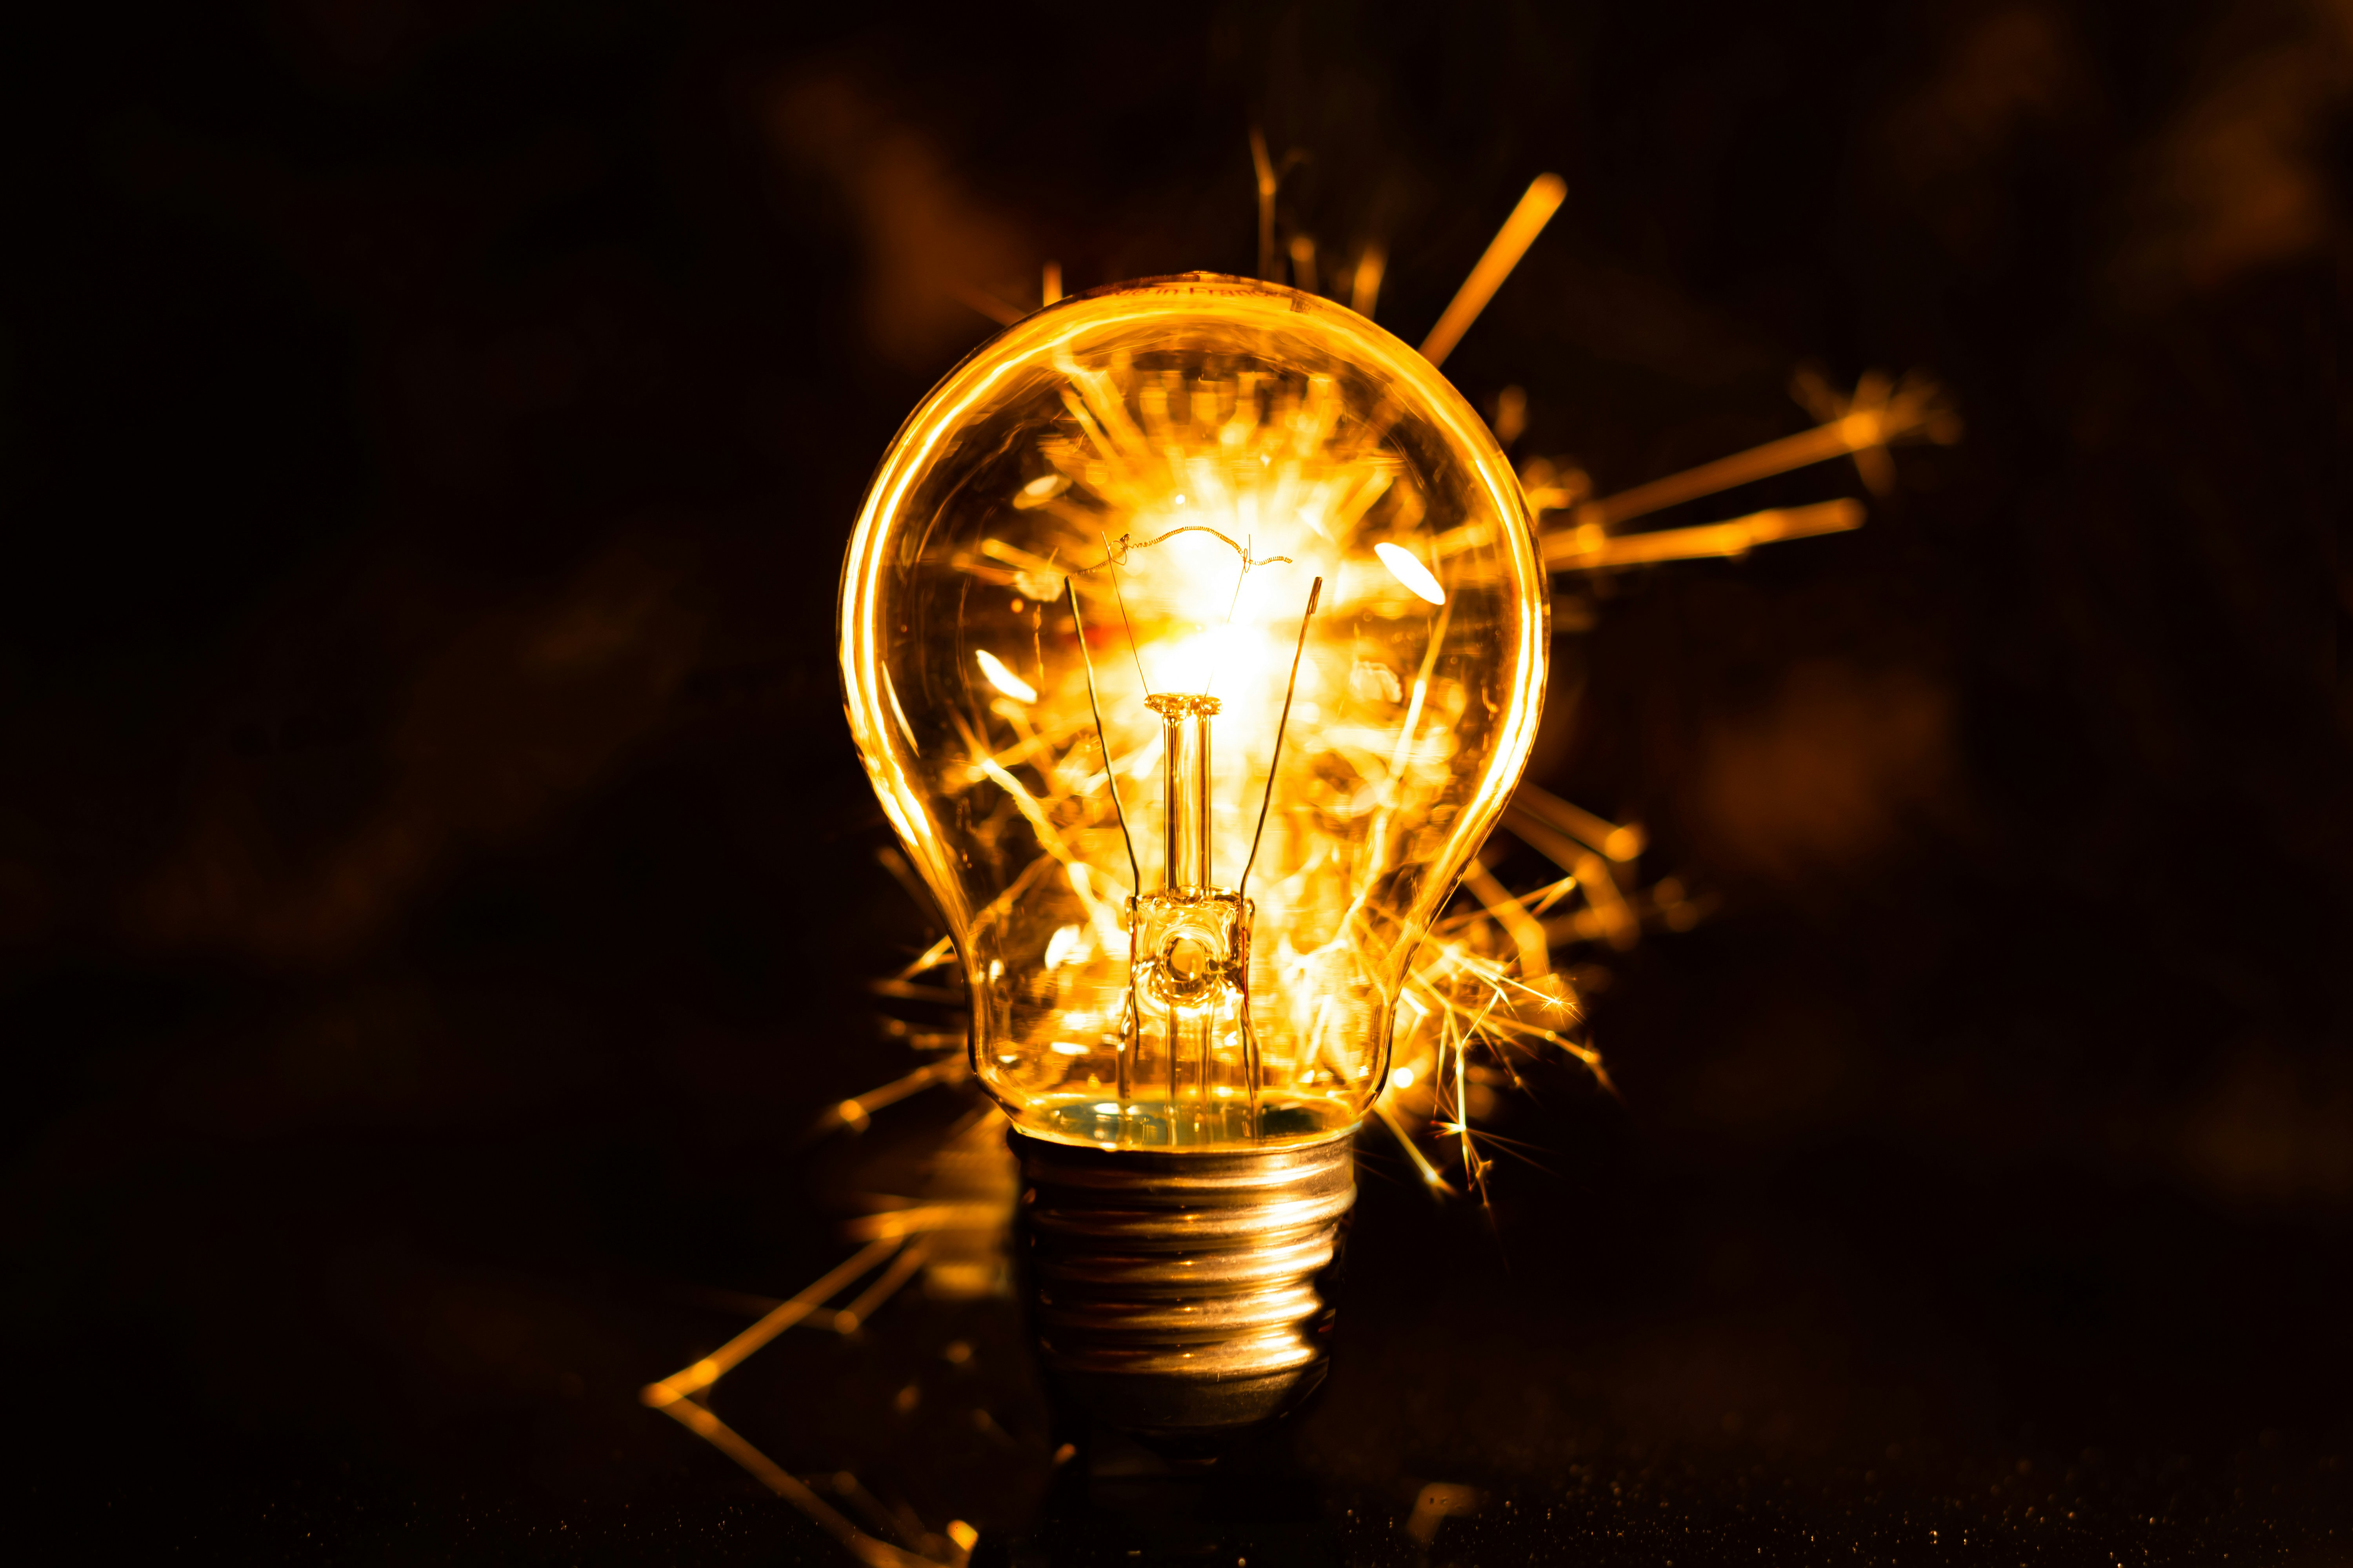
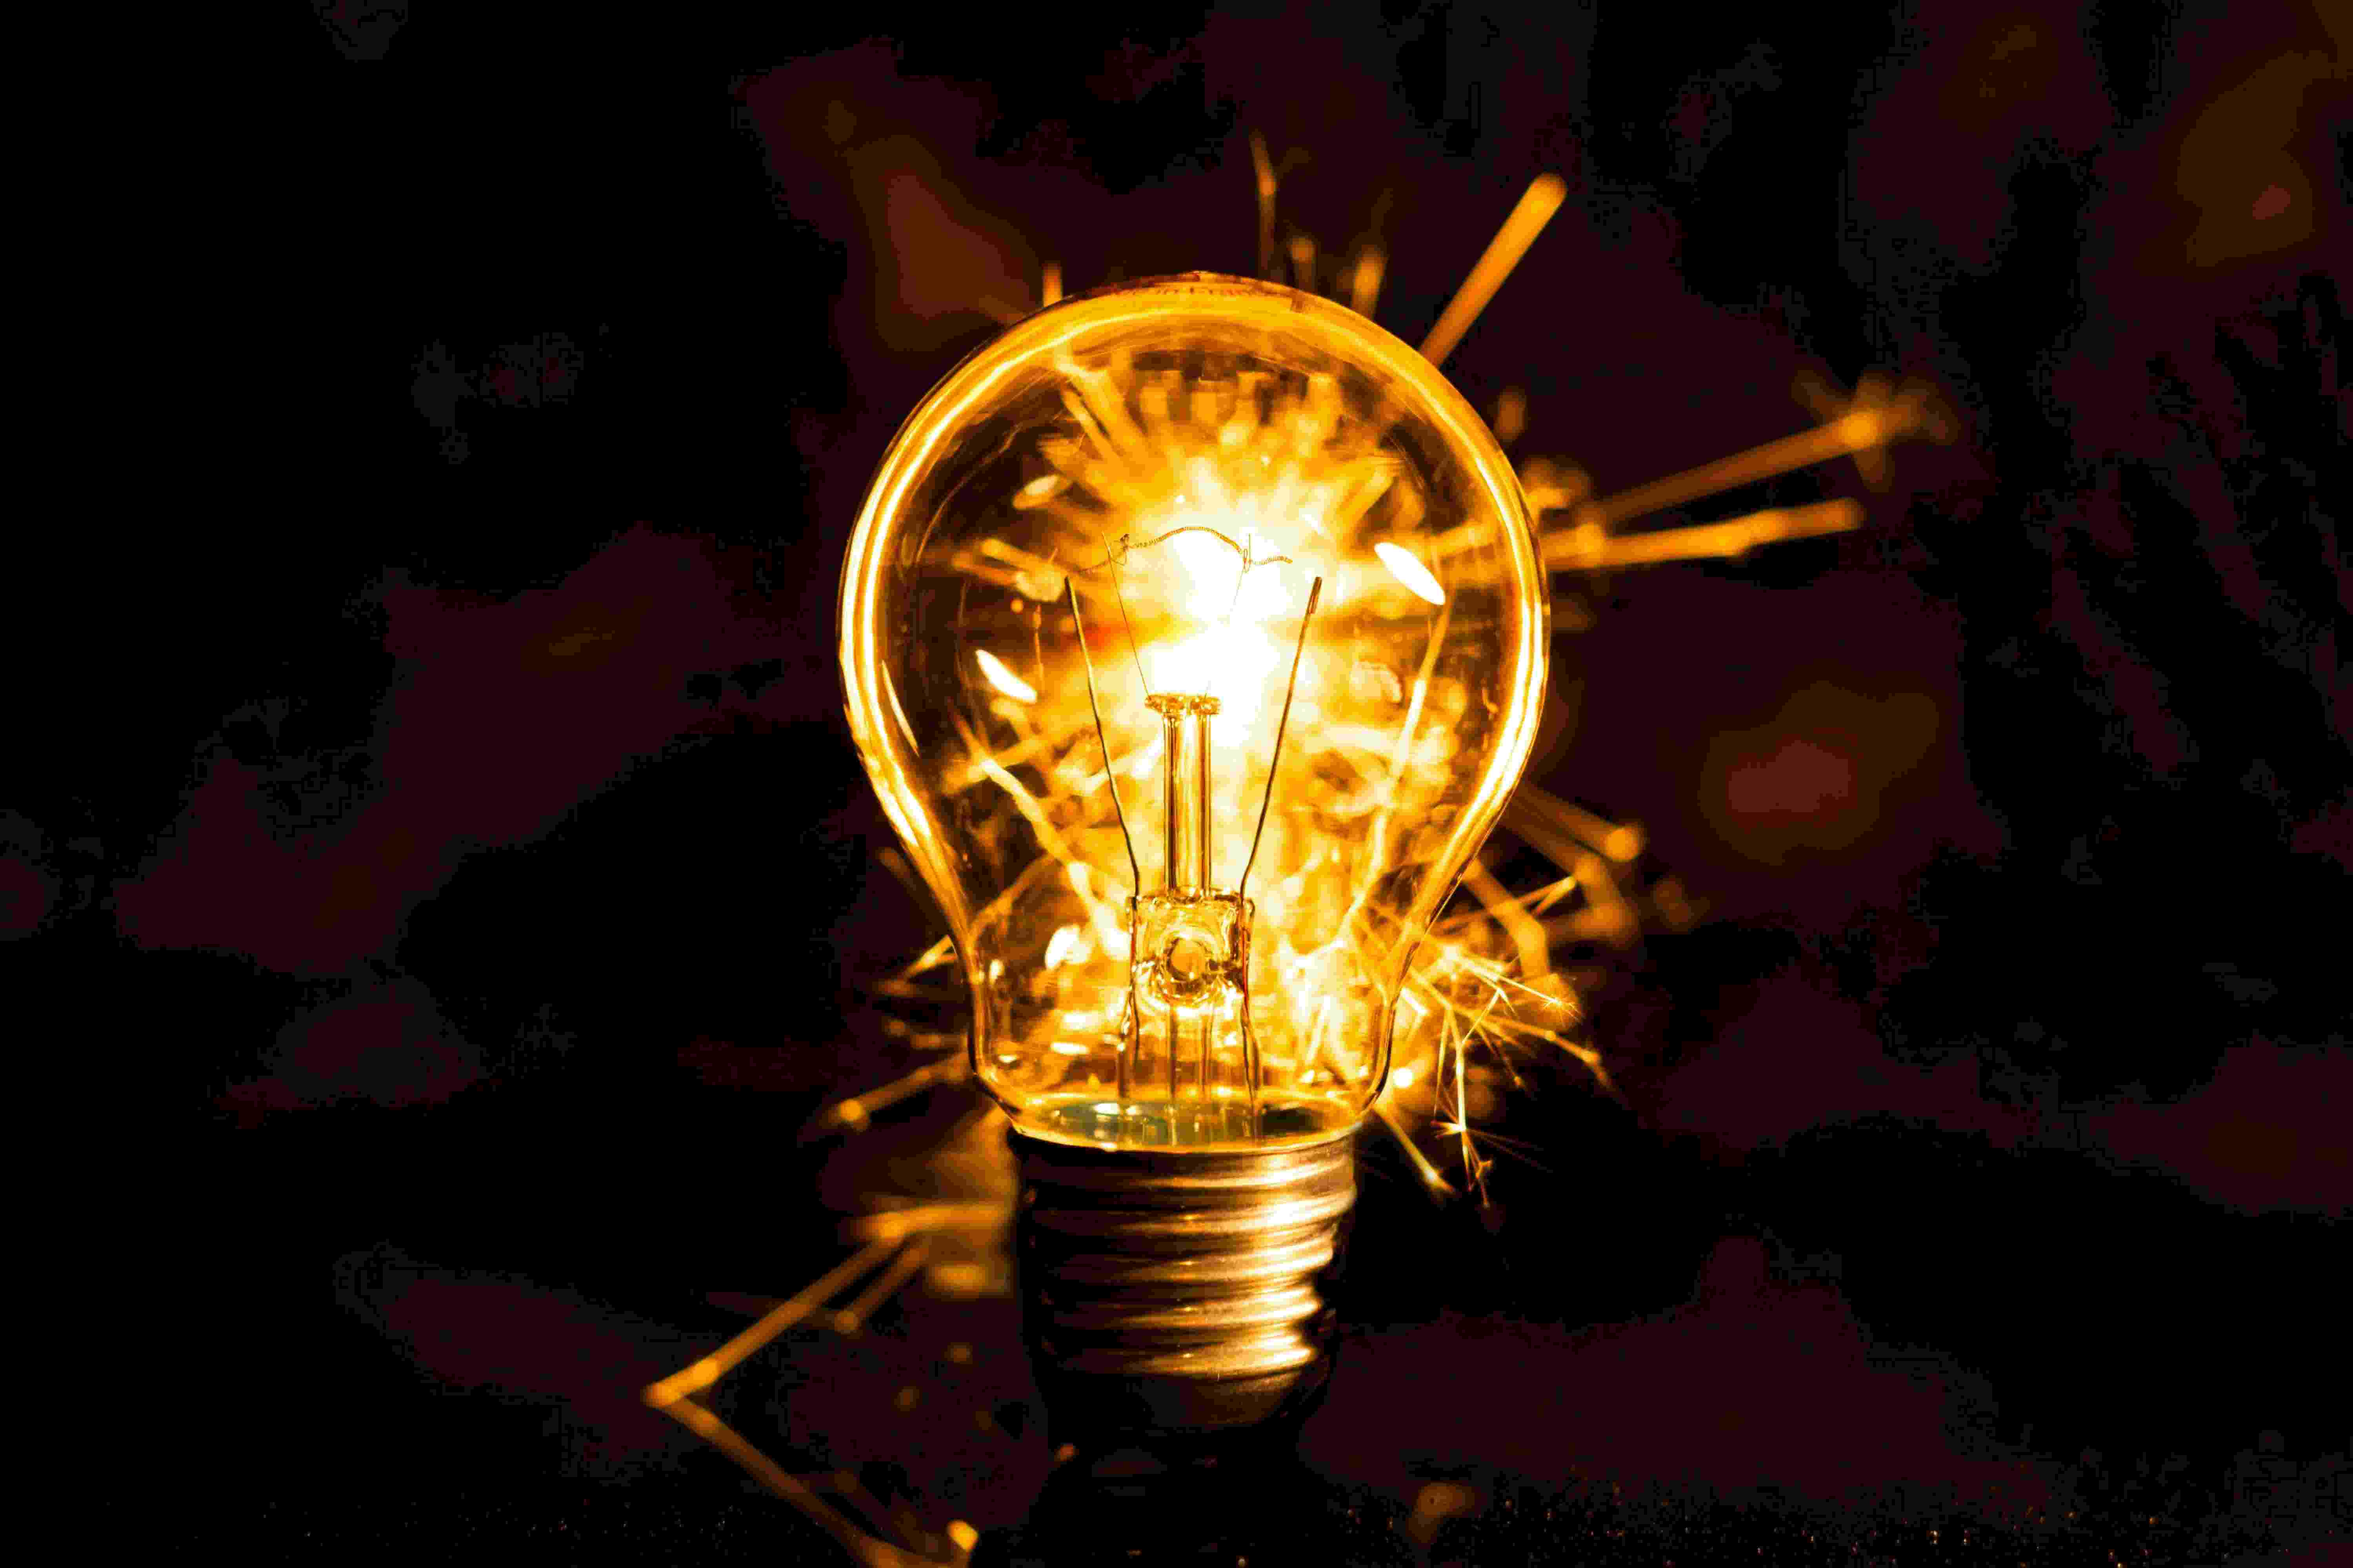
Added new text on about page and added new images and text on the acting page and used css for styling

diff --git a/acting.html b/acting.html
@@ -28,13 +28,10 @@
 </div>
 
 
-<p>Acting is about using our imaginations to create
-    <br>
-    funny characters, unique story and interesting ideas
-    <br>
-    In Theatre Sports Club, we play fun games to express 
-    <br>
-    the elements of acting.</p>
+<p><b>Acting</b> is about using our imaginations, using our voices and moving our bodies to create stories!
+<br>
+In Theatre Sports Club, we dont memories scripts, instead we play fun games to learn about the elements of acting.
+</p>
 
 <div class="acting-content-one">
  <div class="acting-image-one">
@@ -42,16 +39,37 @@
  </div>
     <p>Photo by Hamish Kale on Unsplash</p>
 </div>
-<p>EEEEEEEEEEEEEEEEEEEEEEEEEEE
+
+    <p><b>Creativity</b> is about using your imagination to create
     <br>
-    EEEEEEEEEEEEEEEEEEEEEEEEEEEEE
+    funny characters, unique stories and interesting ideas.
     <br>
-    EEEEEEEEEEEEEEEEEEEEEEEEEEEEEEE</p>
+    We play a fun game called Bus Stop, were we create
+    <br>
+    over-the-top characters and stories to get the other
+    <br>
+    person of the bench.</p>
 
 <div class="acting-image-two">
-    <img src="images/acting-2.jpg.jpg" alt="Image Of Actors On Stage Practicing">
+    <img src="images/acting-3.jpg.jpg" alt="Image Of A Glowing Light Bulb">
 </div>
-<p>Photo by Hamish Kale on Unsplash</p>
+<p>Photo by Theo Crazzolara on Unsplash</p>
+
+<p><b>Problem Solving</b> is about thinking quickly, 
+    <br>
+    fixing challanges that you face on stage and 
+    <br>
+    create them into a new ideas. In the game Space Jump,
+    <br>
+    actors have to quickly come up with new ideas that 
+    <br>
+    everyone instantly adapts to.</p>
+
+</p>
+<div class="acting-image-three">
+    <img src="images/acting-4.jpg.jpg" alt="Image Of Puzzle Pieces">
+</div>
+<p>Photo by Catherine Breslin on Unsplash </p>
 
 </body>
 

diff --git a/about.html b/about.html
@@ -35,13 +35,13 @@
     </div>
     <div class="about-text">
     <ul>
-        <li>Loacation: J4, The Drama Room</li>
+        <li>Location: J4, The Drama Room</li>
         <br>
         <li>Days: Every Tuesday Lunchtime</li>
         <br>
         <li>Timings: 1:30pm-2:30pm</li>
         <br>
-        <li>Teacher In Charge: Ms Mcguiness</li>
+        <li>Teacher In Charge: Ms McGuiness</li>
     </ul>
     </div>
 

diff --git a/styles.css b/styles.css
@@ -147,3 +147,15 @@ body {
     gap: 10%;
     font-size: x-large;
 }
+
+.acting-image-three {
+    width: 20%;
+    height: auto;
+    display: flex;
+    justify-content: flex-start;
+}
+
+.acting-image-three img {
+    border-radius: 0% !important;
+    border: 5px solid #CFBA2B;
+}
